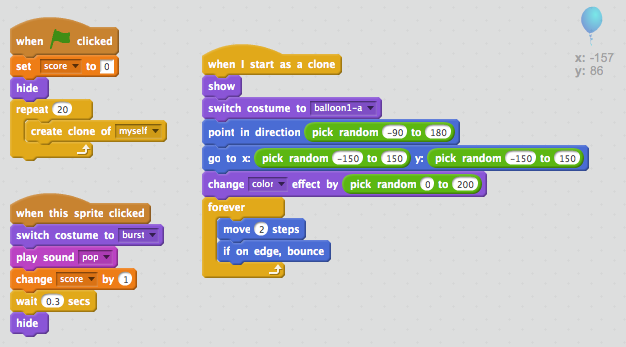
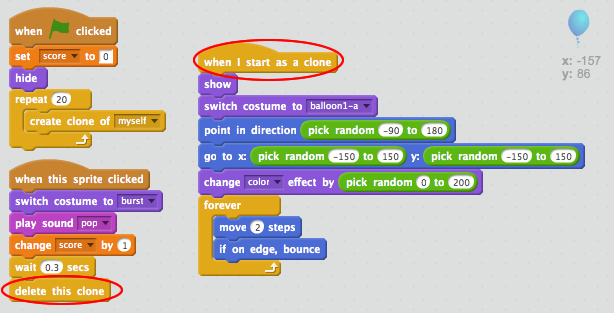
Attempt 2 at fixing #211. Reverted to 'delete this clone' block in step 5

diff --git a/en-GB/Term 1/Balloons/Balloons.md b/en-GB/Term 1/Balloons/Balloons.md
@@ -201,7 +201,7 @@ Popping 1 balloon isn't much of a game, so let's add lots more!
 
 	![screenshot](balloons-clone-1.png)
 
-+ You can now attach the code you've just removed to the `when I start as a clone` {.blockevents} event, so that your balloon code now looks like this:
++ You can now attach the code you've just removed to the `when I start as a clone` {.blockevents} event. You should also replace the `hide` {.blocklooks} block in the balloon-clicking script with a `delete this clone` {.blockcontrol} block. Your balloon code should now look like this:
 
 	![screenshot](balloons-clone-2.png)
 
